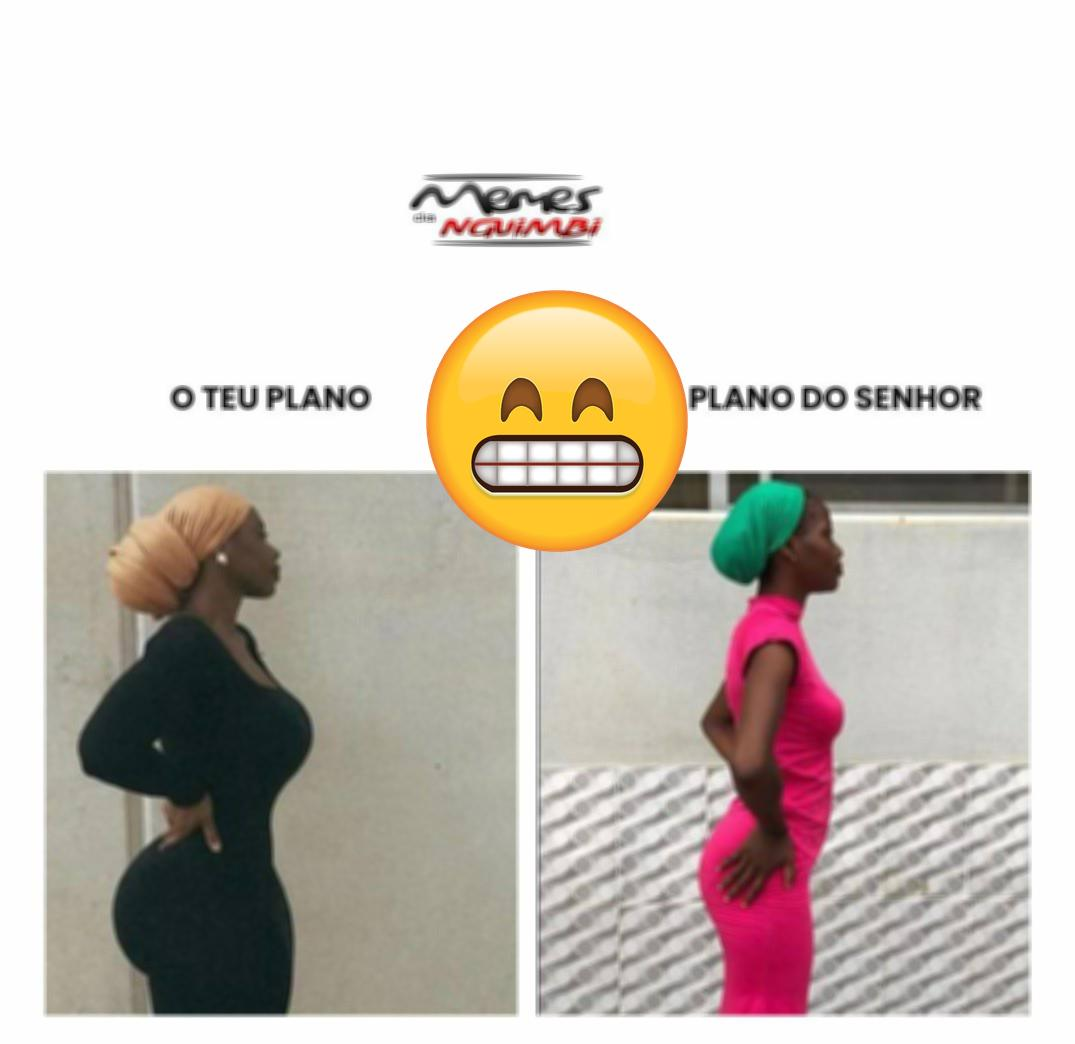
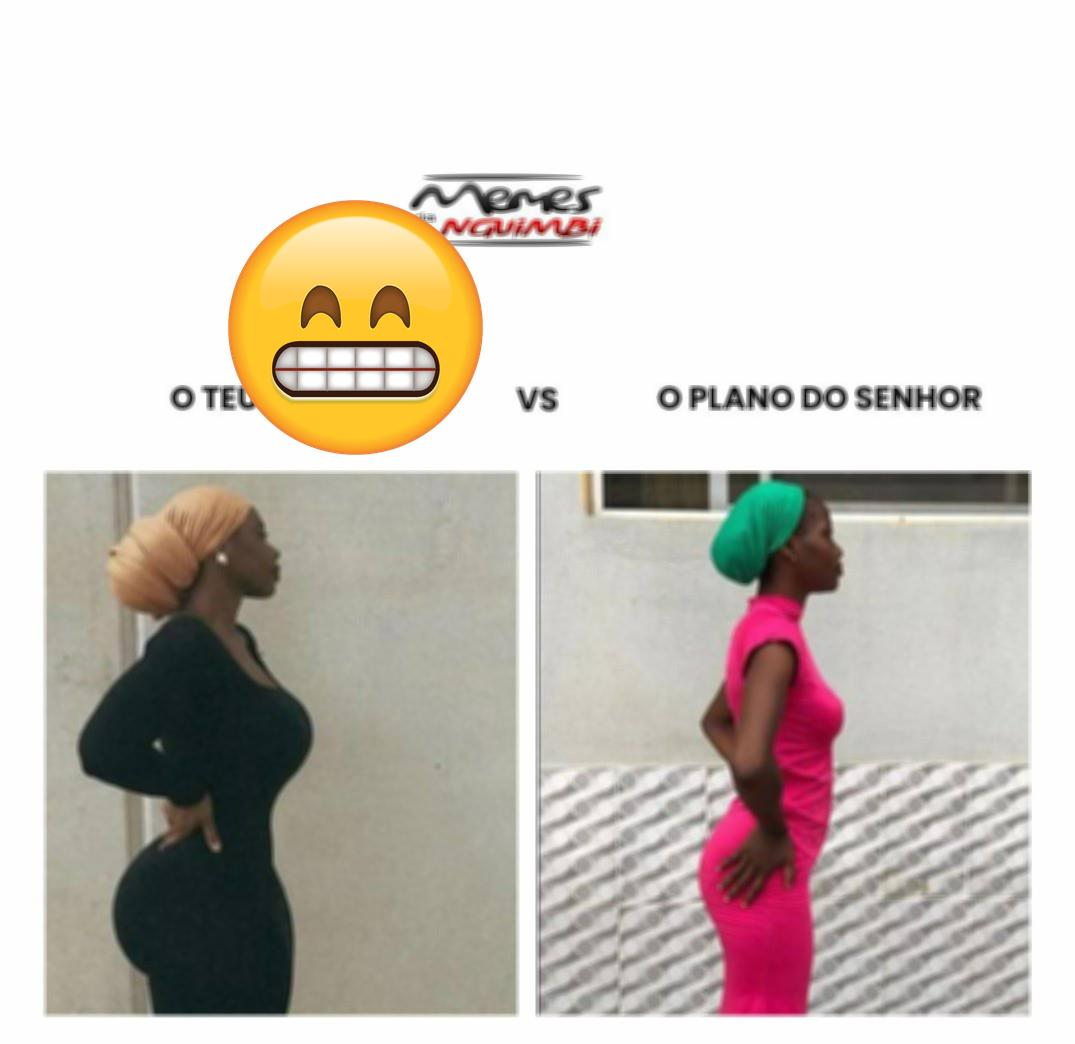
first commit

Changed region(s): [[0.2149, 0.1839, 0.6447, 0.5517]]

diff --git a/meme_generator.py b/meme_generator.py
@@ -138,9 +138,10 @@ class MemeGenerator:
 
     def overlay_face_emoji(self, img, emoji_img, position):
         # Resize emoji image proportionally to fit 1/4th of the main image
-        emoji_width = min(img.width // 4, emoji_img.width)
-        emoji_height = emoji_img.height * emoji_width // emoji_img.width
-        emoji_img = emoji_img.resize((emoji_width, emoji_height), Image.LANCZOS)
+        max_emoji_width = img.width // 4
+        max_emoji_height = img.height // 4
+
+        emoji_img.thumbnail((max_emoji_width, max_emoji_height), Image.LANCZOS)
 
         # Calculate position based on provided position tuple (x, y)
         x, y = position
@@ -184,7 +185,9 @@ class MemeGenerator:
             # Overlay a random face emoji
             if self.face_emojis:
                 emoji_img = random.choice(self.face_emojis)
-                emoji_position = (random.randint(0, width - emoji_img.width), random.randint(0, height - emoji_img.height))
+                emoji_max_x = width - emoji_img.width
+                emoji_max_y = height - emoji_img.height
+                emoji_position = (random.randint(0, emoji_max_x), random.randint(0, emoji_max_y))
                 self.overlay_face_emoji(img, emoji_img, emoji_position)
 
             # Save the meme
@@ -223,10 +226,10 @@ if __name__ == "__main__":
     # Create a MemeGenerator instance
     meme_generator = MemeGenerator(font_path, font_size)
 
-    # Generate a meme
+    # Generate a single meme
     image_path = "my_image.jpg"
-    top_text = "marr me"
-    bottom_text = "NumPy"
+    top_text = "Top Text"
+    bottom_text = "Bottom Text"
     output_path = "meme.jpg"
     meme_generator.generate_meme(image_path, top_text, bottom_text, output_path)
 
